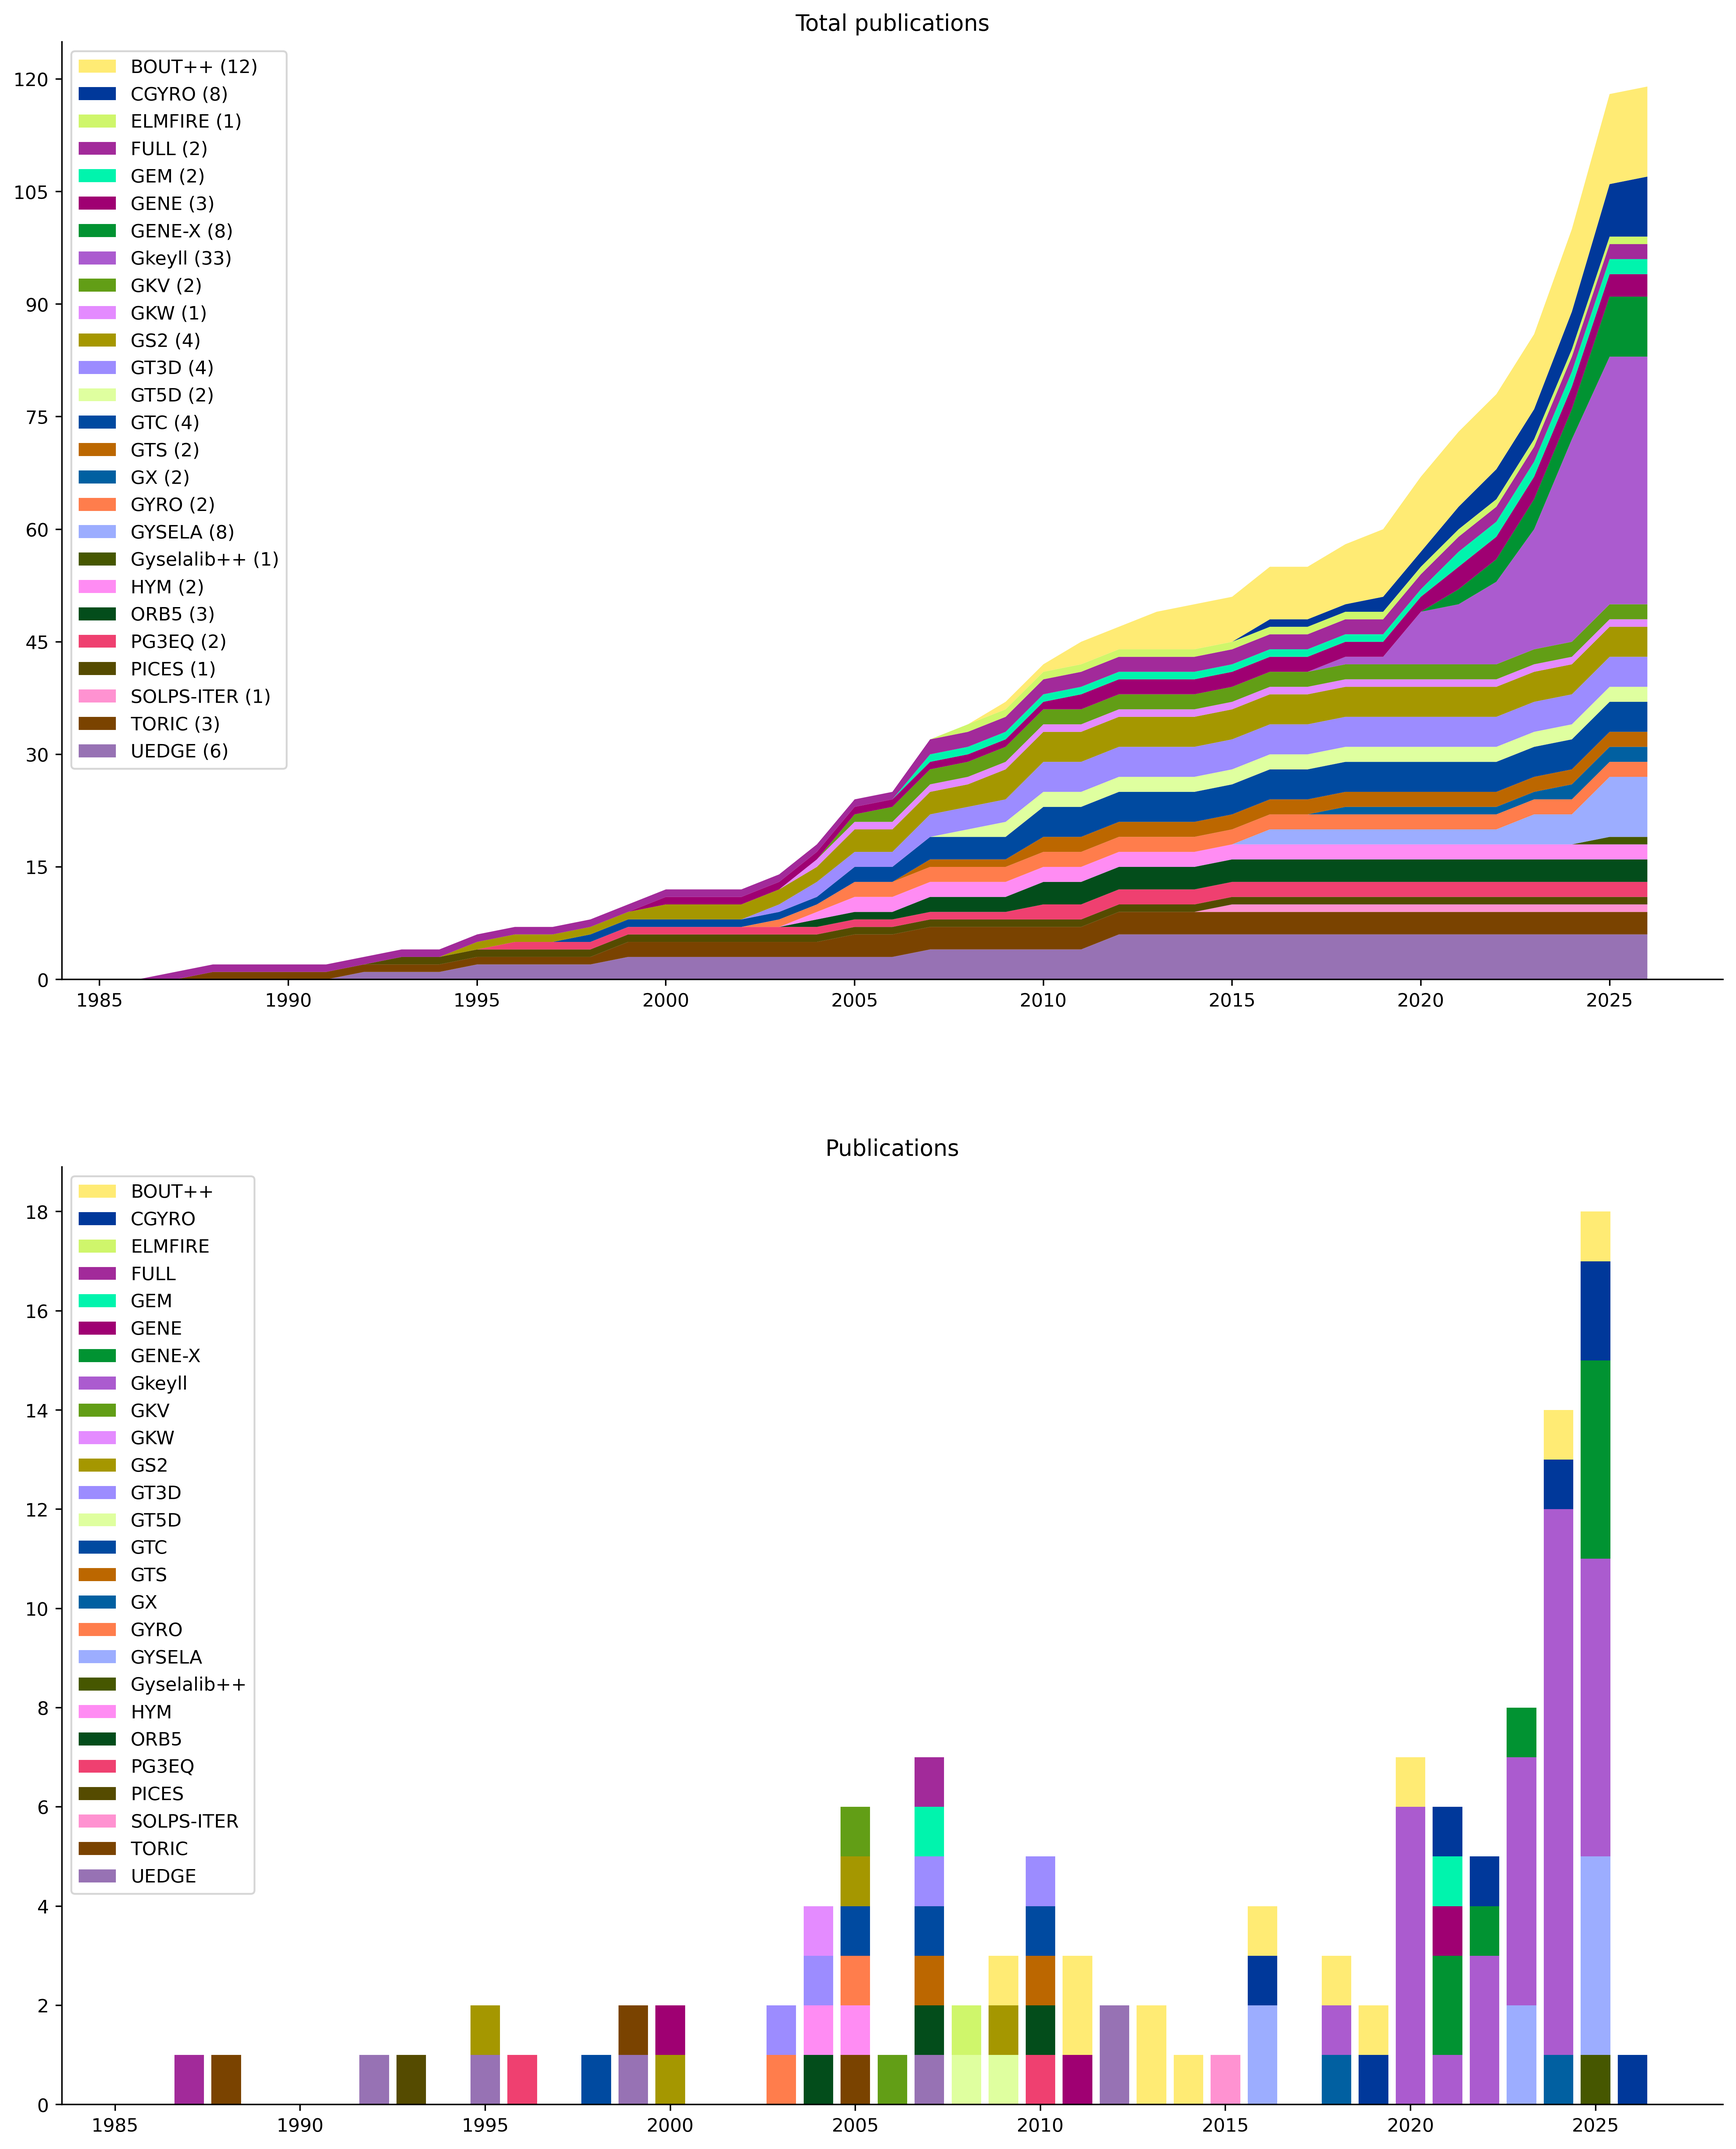
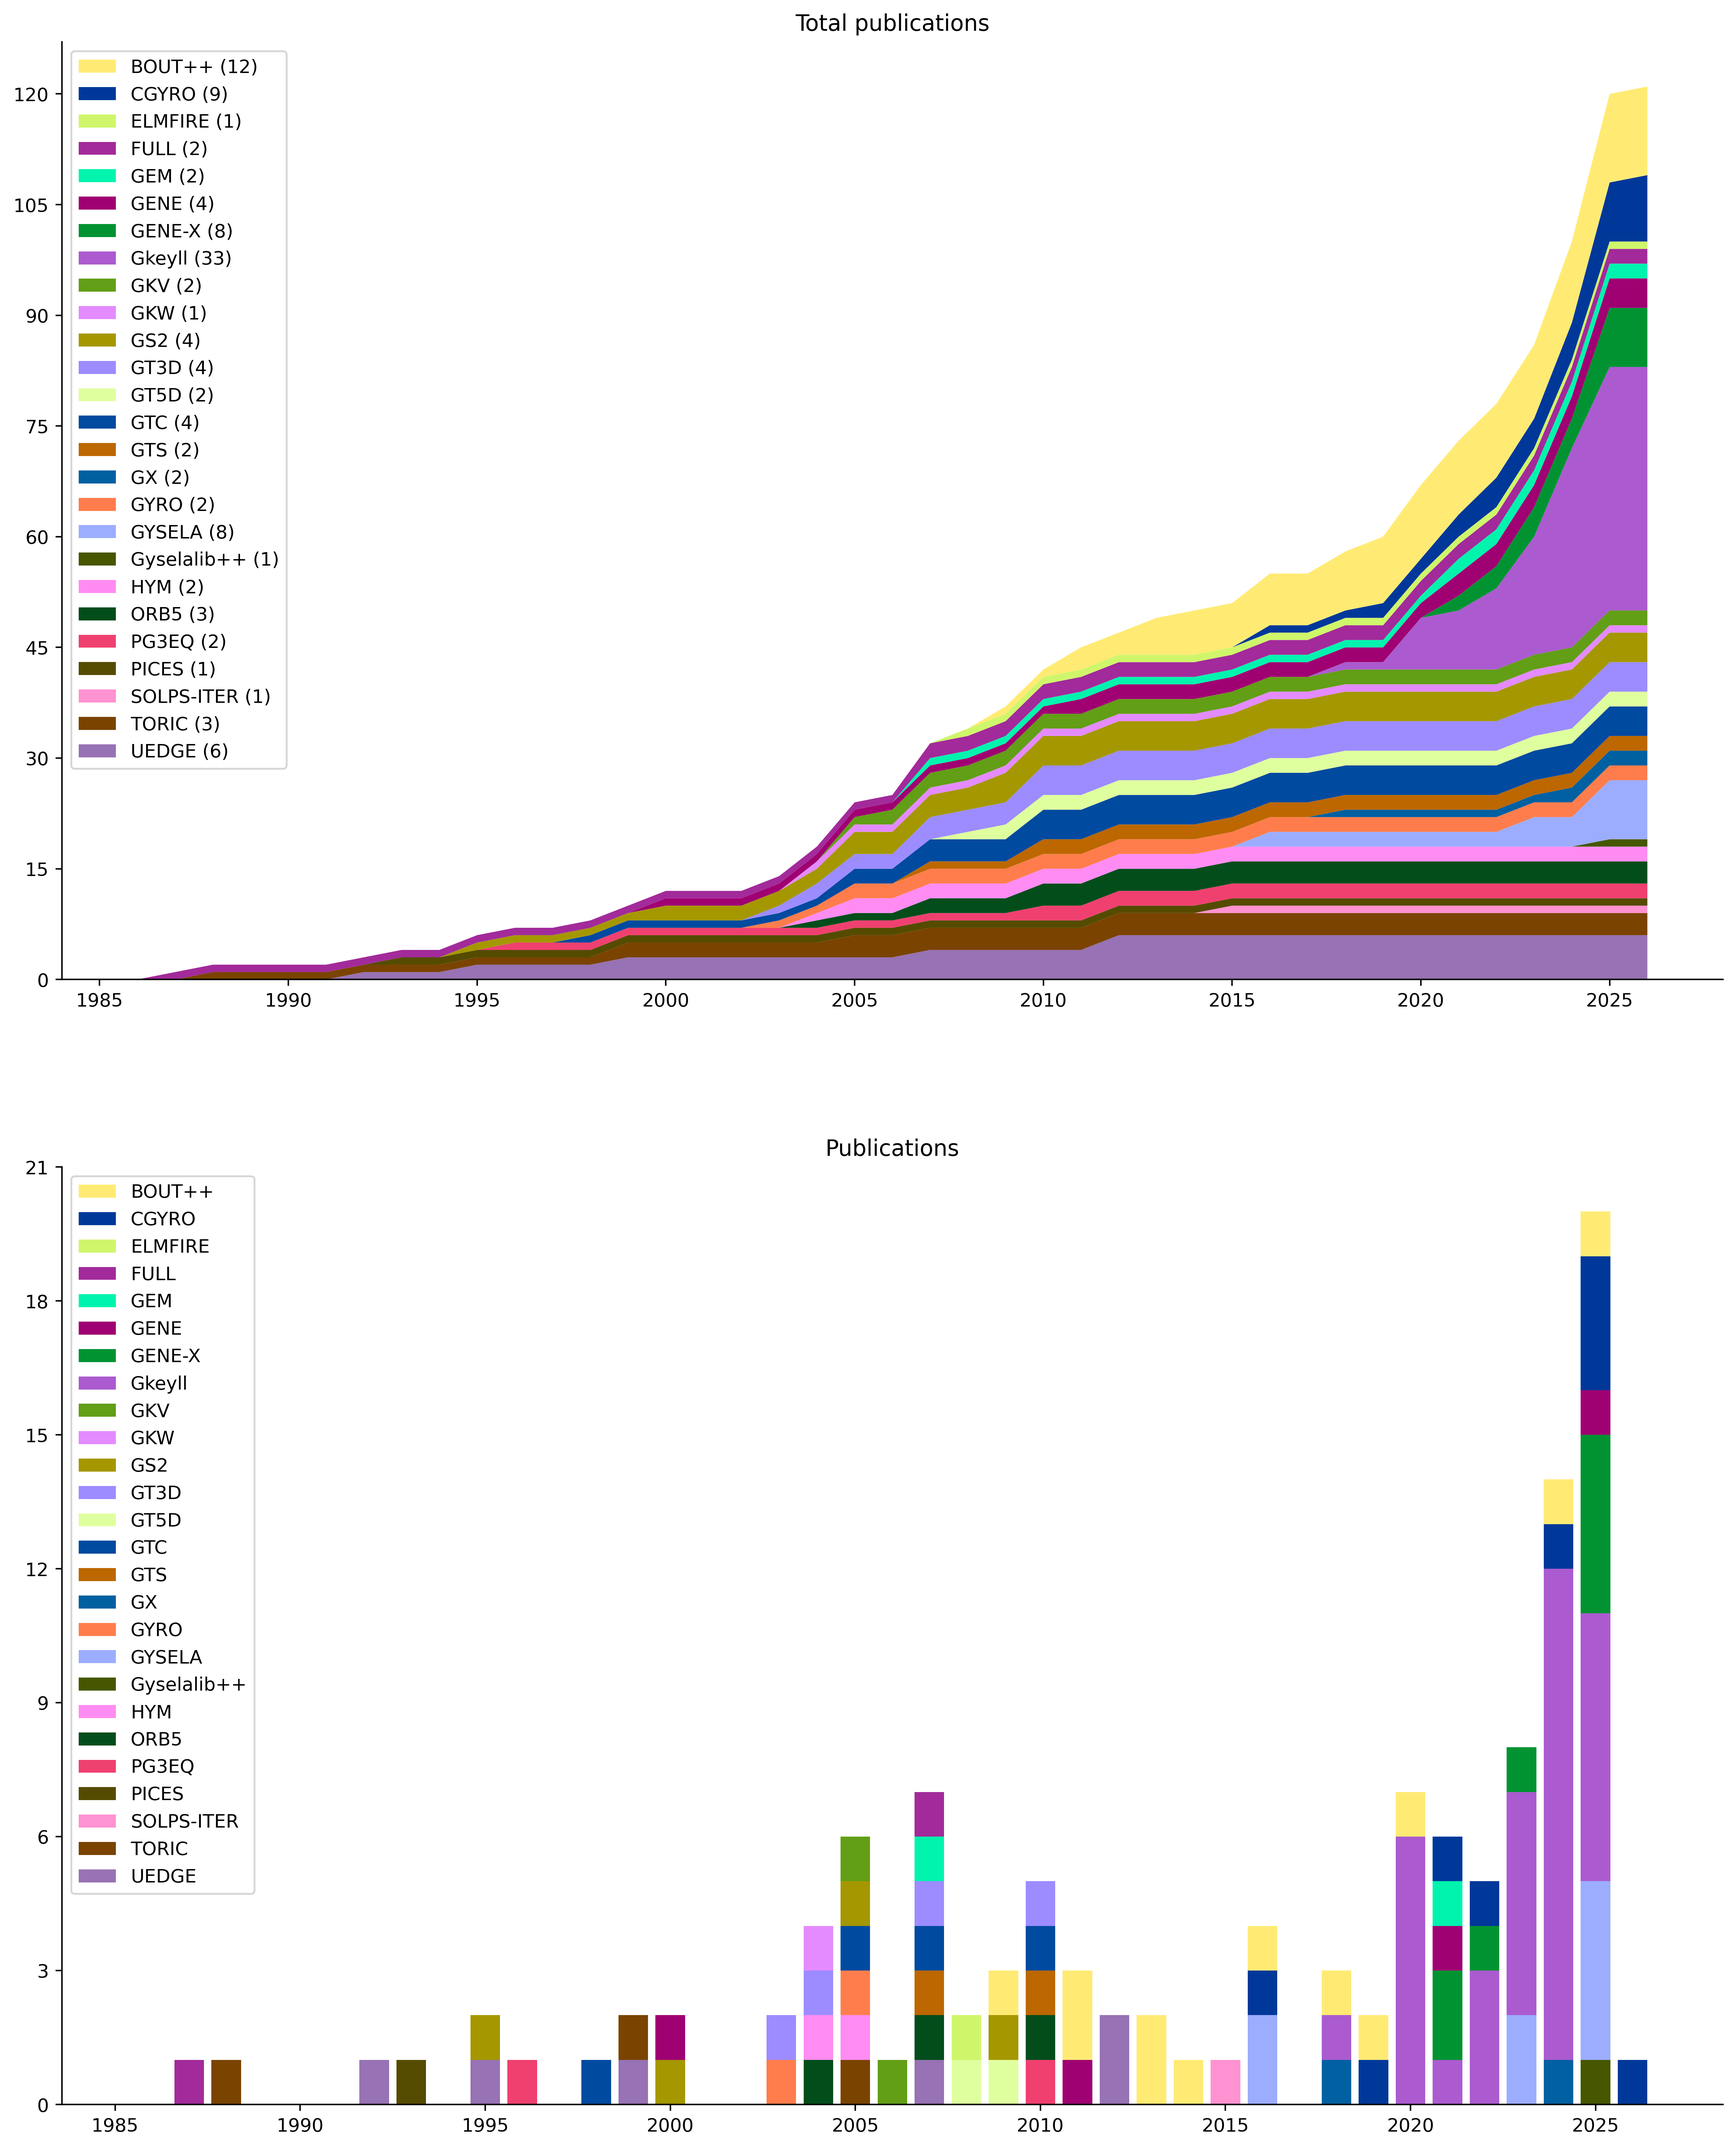
feat: add "10.1088/1741-4326/addc7e"

diff --git a/README.md b/README.md
@@ -13,6 +13,7 @@
 - Investigation of the sheared flows and staircases with a full-wave 2D synthetic diagnostic FeDoT. Glasser at el. (2025) [10.1088/1361-6587/adb519](https://doi.org/10.1088/1361-6587/adb519)
 - A moment-conserving discontinuous Galerkin representation of the relativistic Maxwellian distribution. Johnson at el. (2025) [10.1017/S0022377825100718](https://doi.org/10.1017/S0022377825100718)
 - A parallel-kinetic-perpendicular-moment model for magnetised plasmas. June at el. (2025) [10.1017/S0022377825100706](https://doi.org/10.1017/S0022377825100706)
+- Verification of fast ion and rotation effects on turbulence through comparison of GENE and CGYRO with L-mode plasmas in KSTAR. Kim at el. (2025) [10.1088/1741-4326/addc7e](https://doi.org/10.1088/1741-4326/addc7e)
 - Analysis of the impact of parallel magnetic fluctuations on linear gyrokinetic stability in NSTX-U and verification of gyro-fluid models. Kinsey at el. (2025) [10.1063/5.0270873](https://doi.org/10.1063/5.0270873)
 - Controlling impurity transport in 5D gyrokinetic simulations using a transport barrier. Lo-Cascio at el. (2025) [10.1088/1741-4326/adc5ea](https://doi.org/10.1088/1741-4326/adc5ea)
 - A kinetic line-driven radiation operator and its application to Gyrokinetics. Roeltgen at el. (2025) [10.1088/1741-4326/adff28](https://doi.org/10.1088/1741-4326/adff28)
